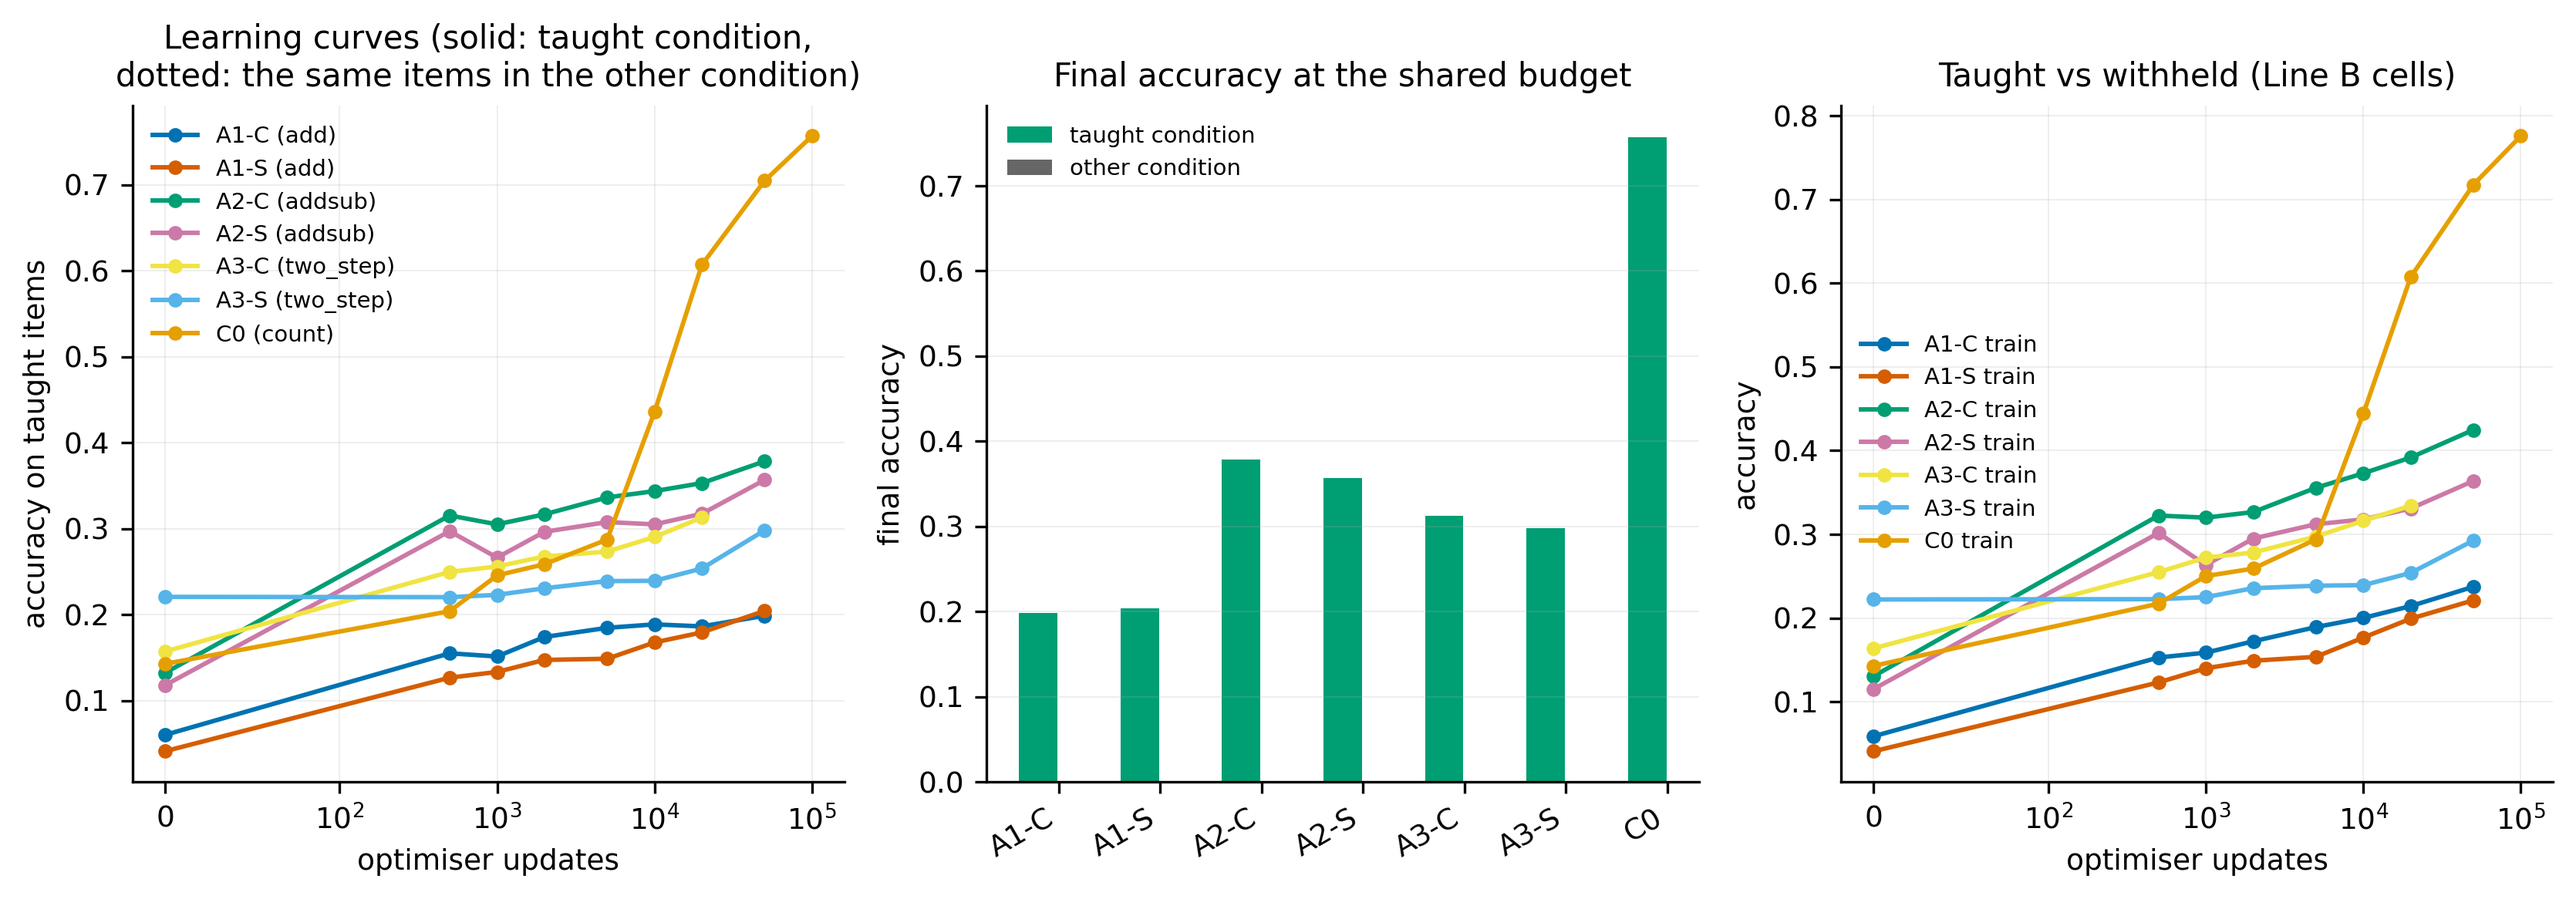
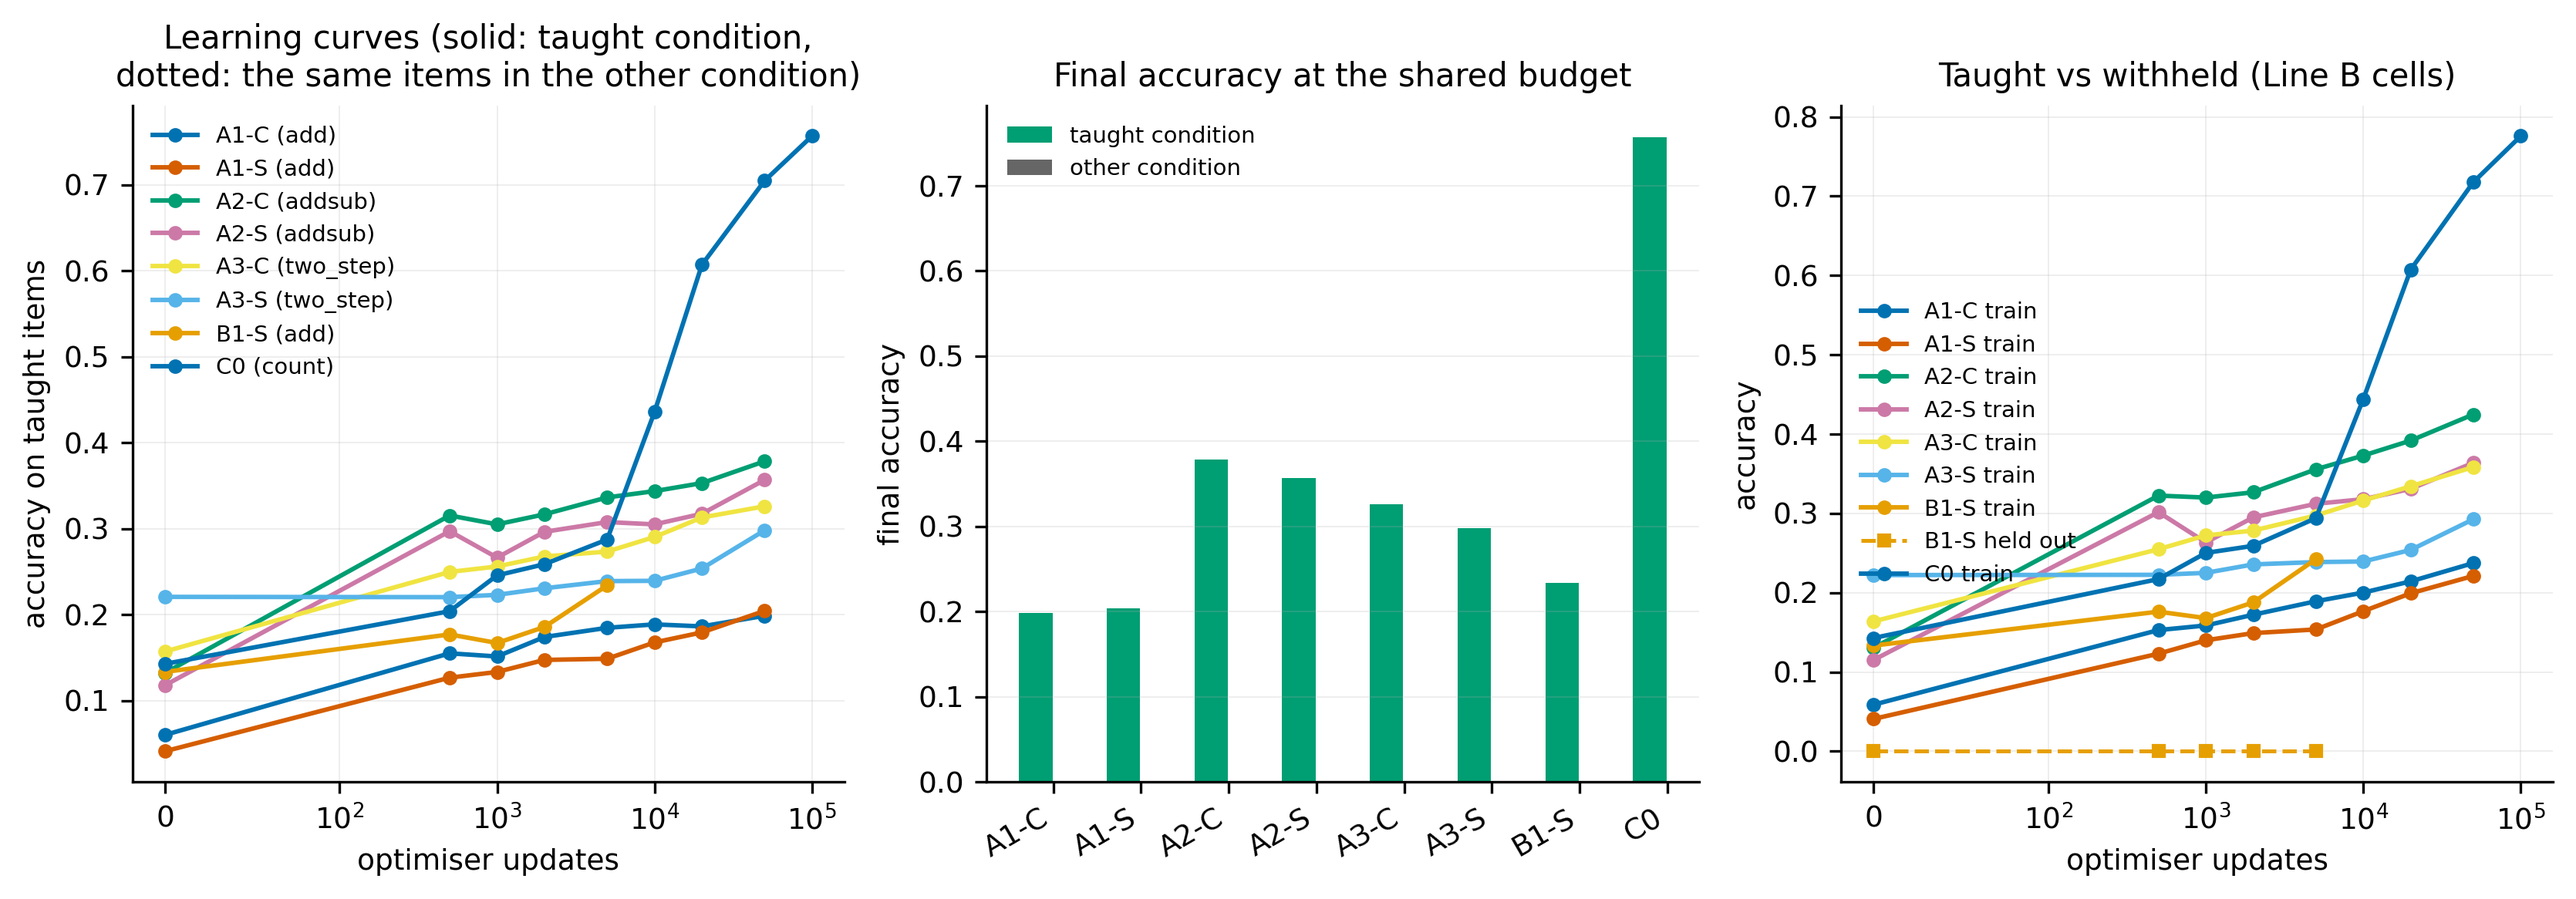
phase1: Line A complete (foundation + six comparison cells, all finished)
Condition B, the diagnostic condition, against the feedforward decoder of
the same fixed retina and chance:

  count 1-7        0.811  (0.228, 0.143)
  add 1-7          0.163 / 0.146   (0.121, 0.077)
  +- rule choice   0.319 / 0.321   (0.279, 0.111)
  two-step         0.282 / 0.280   (0.217, 0.143)

Only counting is far above every feedforward reference.  The three arithmetic
levels sit 0.02-0.06 above theirs, a range one seed cannot resolve, and add is
the hardest of the three -- ordered by operand range and class count rather
than by which operation sounds harder.

The matched-update comparison is now complete and the pattern is clean: the
counting foundation leads at nearly every intermediate probe and by the shared
budget the advantage is gone at every level, and reversed for addition.

  add         +0.027 +0.021 +0.027 +0.032 +0.013 +0.011 +0.009 -0.017
  rule choice +0.013 -0.001 +0.018 +0.007 +0.023 +0.021 +0.023 +0.002
  two-step    -0.072 +0.027 +0.042 +0.042 +0.057 +0.041 +0.049 -0.002

The two-step advantage of +0.049 at 20,000 updates is -0.002 by 50,000: the
curriculum buys speed, not reach.

Also records why B1 gets a second, finer indicator: its pre-registered
held-out set is two ordered pairs, so accuracy there can only take three
values, while the 32 pairs that are neither taught nor withheld give a 1/32
-grained measure of whether the rule itself was learned.

diff --git a/scripts/28_phase1_analysis.py b/scripts/28_phase1_analysis.py
@@ -274,6 +274,11 @@ def write_report(cells, a_rows, b_rows, out_path: Path, base: dict | None = None
                  f"延迟要求 T_grok > {spec.CRITERIA.delay_factor:g}×T_mem，"
                  "并且连续指标必须同步移动（否则记为阈值假象）。")
         L.append("")
+        L.append("**B1 的两个留出对太粗（15 类里只有 2 个 item，准确率只能取 0 / 0.5 / 1），"
+                 "所以另有一个更细的规则学习指示器**：`unsupported` 那一列是既没教也没"
+                 "留出的 32 个有序对（chance 0.077）。它衡量的是「学会加法规则」而不是"
+                 "「那一个事实」，粒度是 1/32；预先注册的判定仍然用 2+3 那一对，两个都报。")
+        L.append("")
 
     L.append("## 内部记录（行为变化是否伴随内部重组）\n")
     L.append("| cell | δ mean | activity dim | 探针 |")

diff --git a/reports/phase1_report.md b/reports/phase1_report.md
@@ -39,7 +39,7 @@
 | A2-S | addsub | scratch | 50000 | **0.319** | 0.279 | 0.357 | 0.327 | 0.364 | 0.324 | -- | -- |
 | A2-C | addsub | add | 50000 | **0.321** | 0.279 | 0.378 | 0.269 | 0.425 | 0.354 | -- | -- |
 | A3-S | two_step | scratch | 50000 | **0.282** | 0.217 | 0.298 | 0.255 | 0.293 | 0.262 | -- | -- |
-| A3-C | two_step | curriculum | 50000 | **0.283** | 0.217 | 0.313 | 0.250 | 0.334 | 0.286 | -- | -- |
+| A3-C | two_step | curriculum | 50000 | **0.280** | 0.217 | 0.326 | 0.275 | 0.358 | 0.306 | -- | -- |
 
 `seen` 是教学内容（A、B 两条件）上的平均准确率；chance: count 0.143 / add 0.077 / addsub 0.111 / two_step 0.143。
 
@@ -55,16 +55,24 @@
 |---|---|---|---|---|---|---|---|
 | A1-S | A1-C | 8 | 0.0154 | -0.0173 | 0.0188 | -0.0057 | 是 |
 | A2-S | A2-C | 8 | 0.0133 | 0.0020 | 0.0270 | 0.0217 | 是 |
-| A3-S | A3-C | 7 | 0.0266 | 0.0487 | 0.0258 | 0.0593 | **否（进行中）** |
+| A3-S | A3-C | 8 | 0.0230 | -0.0020 | 0.0260 | 0.0280 | 是 |
 
 Δ = 课程脑 − 从零脑，正值表示课程脑更好。B 列是诊断条件；A 列是自然布局。单 seed，所以只有量级明显、且方向在多个探针上一致时才值得当成信号。
 - `A1-S` vs `A1-C`：B 上逐探针 Δ = [0.0267, 0.0213, 0.0273, 0.032, 0.0127, 0.0113, 0.0093, -0.0173]（updates [0, 500, 1000, 2000, 5000, 10000, 20000, 50000]）
 - `A2-S` vs `A2-C`：B 上逐探针 Δ = [0.0127, -0.0007, 0.018, 0.0067, 0.0233, 0.0213, 0.0233, 0.002]（updates [0, 500, 1000, 2000, 5000, 10000, 20000, 50000]）
-- `A3-S` vs `A3-C`：B 上逐探针 Δ = [-0.072, 0.0273, 0.042, 0.042, 0.0567, 0.0413, 0.0487]（updates [0, 500, 1000, 2000, 5000, 10000, 20000]）
+- `A3-S` vs `A3-C`：B 上逐探针 Δ = [-0.072, 0.0273, 0.042, 0.042, 0.0567, 0.0413, 0.0487, -0.002]（updates [0, 500, 1000, 2000, 5000, 10000, 20000, 50000]）
 
 ## Line B — 长期训练会不会从记忆跃迁到规则
 
-_尚未有完成的 Line B cell。_
+| cell | task | budget | T_mem | T_grok | 延迟倍数 | train | hold | unsupported | 连续指标同步 | 判定 |
+|---|---|---|---|---|---|---|---|---|---|---|
+| B1-S | add | 200000 | -- | -- |   --   | 0.242 | 0.000 | 0.055 | None | **never_memorised** |
+
+- **B1-S**: training accuracy never held above 0.95, so there is no memorisation phase to be late relative to
+
+判定规则在跑之前就冻结在 `flynum/phase1/spec.py`：T_mem = 训练准确率连续 3 个探针 >0.95，T_grok = 留出准确率连续 3 个探针 >0.8，延迟要求 T_grok > 3×T_mem，并且连续指标必须同步移动（否则记为阈值假象）。
+
+**B1 的两个留出对太粗（15 类里只有 2 个 item，准确率只能取 0 / 0.5 / 1），所以另有一个更细的规则学习指示器**：`unsupported` 那一列是既没教也没留出的 32 个有序对（chance 0.077）。它衡量的是「学会加法规则」而不是「那一个事实」，粒度是 1/32；预先注册的判定仍然用 2+3 那一对，两个都报。
 
 ## 内部记录（行为变化是否伴随内部重组）
 
@@ -74,6 +82,7 @@ _尚未有完成的 Line B cell。_
 | A1-S | 0.2444 | 34.4 | a=0.383 b=0.273 sum=0.204 |
 | A2-C | 0.5268 | 20.6 | a=0.509 answer=0.305 b=0.381 |
 | A2-S | 0.1920 | 29.1 | a=0.529 answer=0.363 b=0.455 |
-| A3-C | 0.4934 | 22.4 | a=0.517 answer=0.223 b=0.364 c=0.299 partial=0.261 |
+| A3-C | 0.4847 | 24.8 | a=0.507 answer=0.241 b=0.356 c=0.301 partial=0.277 |
 | A3-S | 0.1165 | 30.7 | a=0.552 answer=0.275 b=0.401 c=0.357 partial=0.313 |
+| B1-S | 0.1501 | 27.0 | a=0.543 b=0.595 sum=0.291 |
 | C0 | 0.6371 | 25.3 | n=0.428 |
